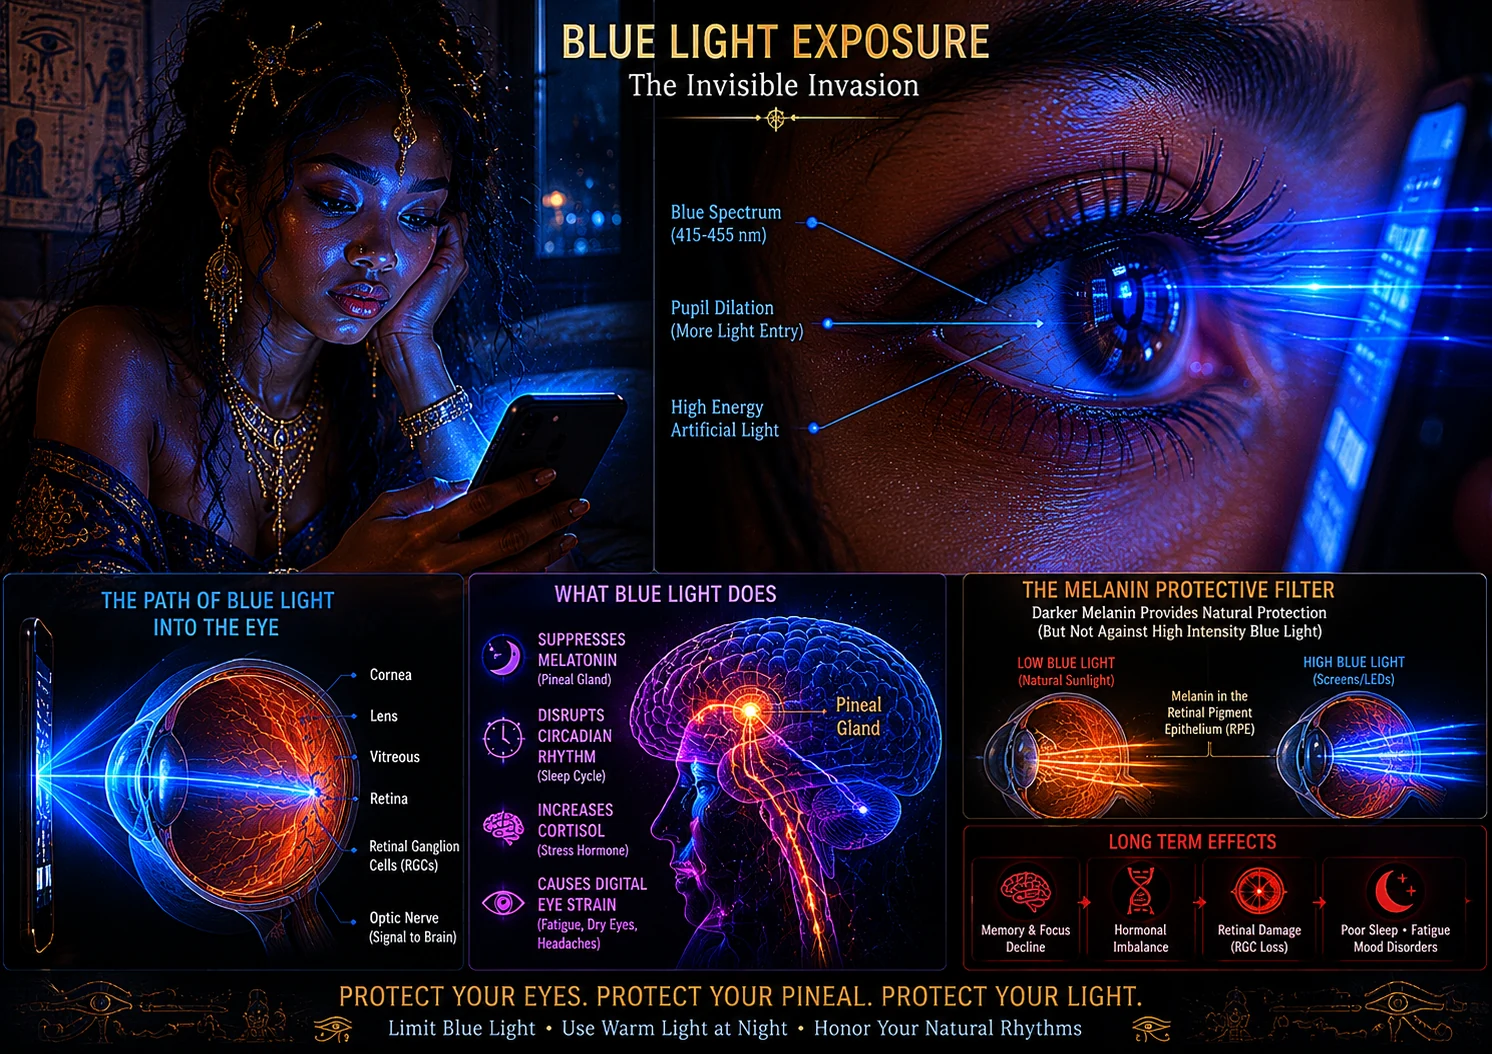
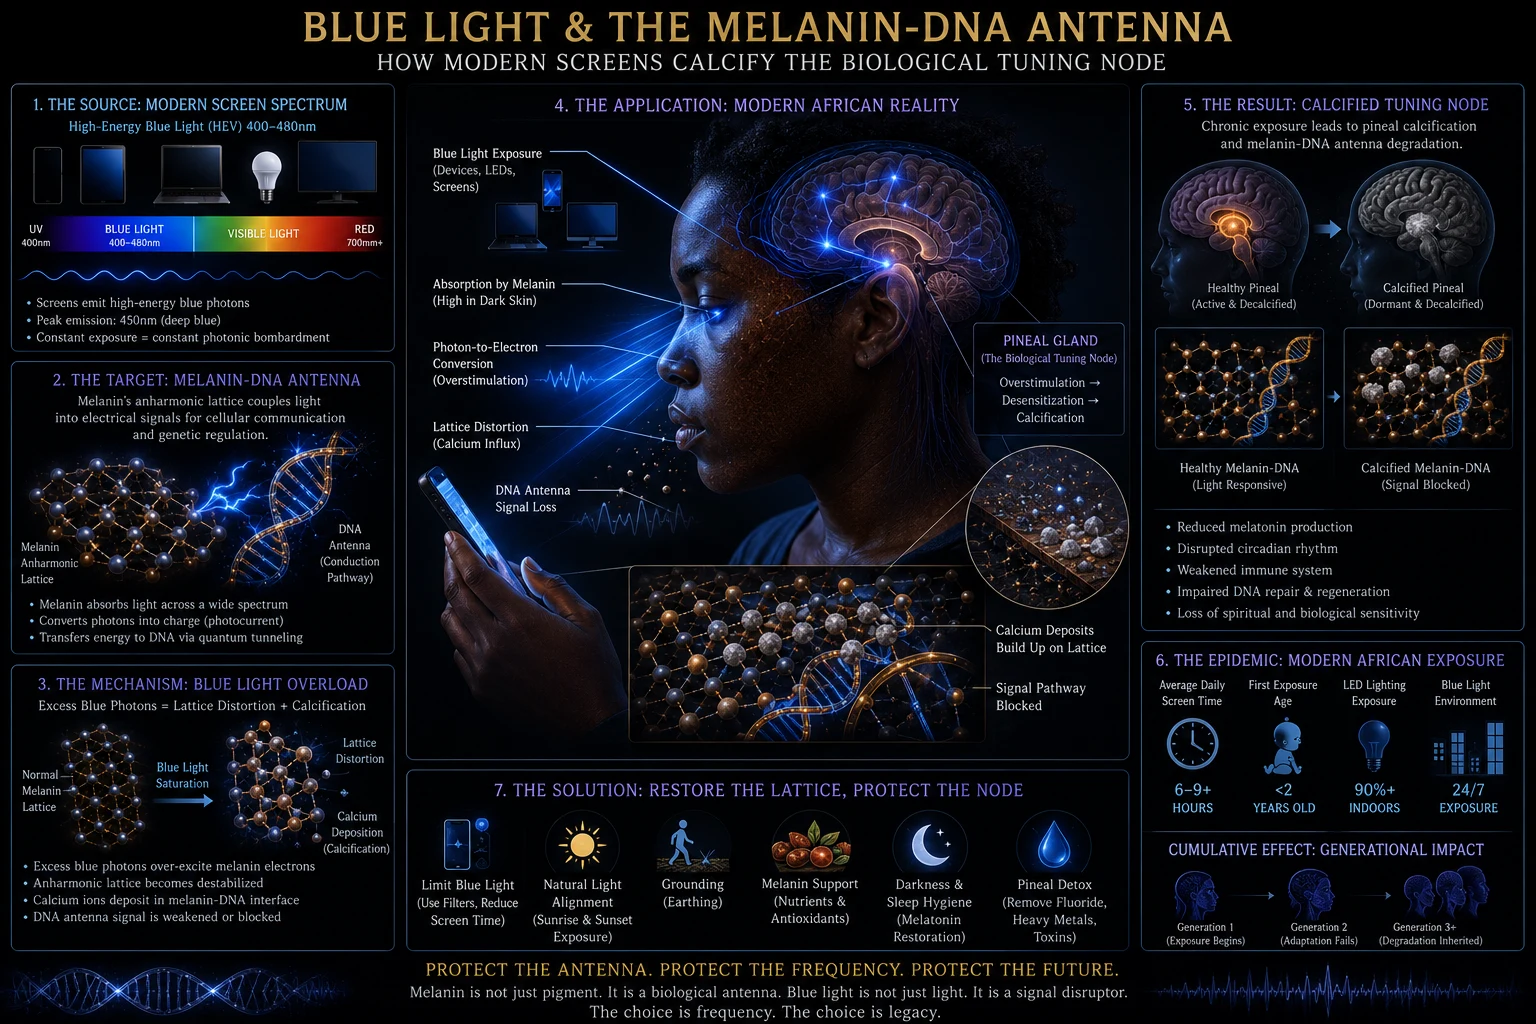
ACR Search + Search2: replace blue-light-exposure body-tab image (drops Horus iconography)
Third image swap in this same shipping unit. The prior blue-light-exposure.webp
carried Eye-of-Horus-style icons in its bottom banner; replacement has none,
checked before this commit. Bumps both service worker caches again
(acr-search-v300->v301, acr-search2-v2->v3) for the same cache-first reason
as the prior commit on this branch.

Claude-Session: https://claude.ai/code/session_01Va5JF8uZUpf6AMv7K1dUt6

diff --git a/Search/sw.js b/Search/sw.js
@@ -1,4 +1,4 @@
-var CACHE = 'acr-search-v300';
+var CACHE = 'acr-search-v301';
 var FILES = [
   './',
   './index.html',

diff --git a/Search2/sw.js b/Search2/sw.js
@@ -1,4 +1,4 @@
-var CACHE = 'acr-search2-v2';
+var CACHE = 'acr-search2-v3';
 var FILES = [
   './',
   './index.html',
